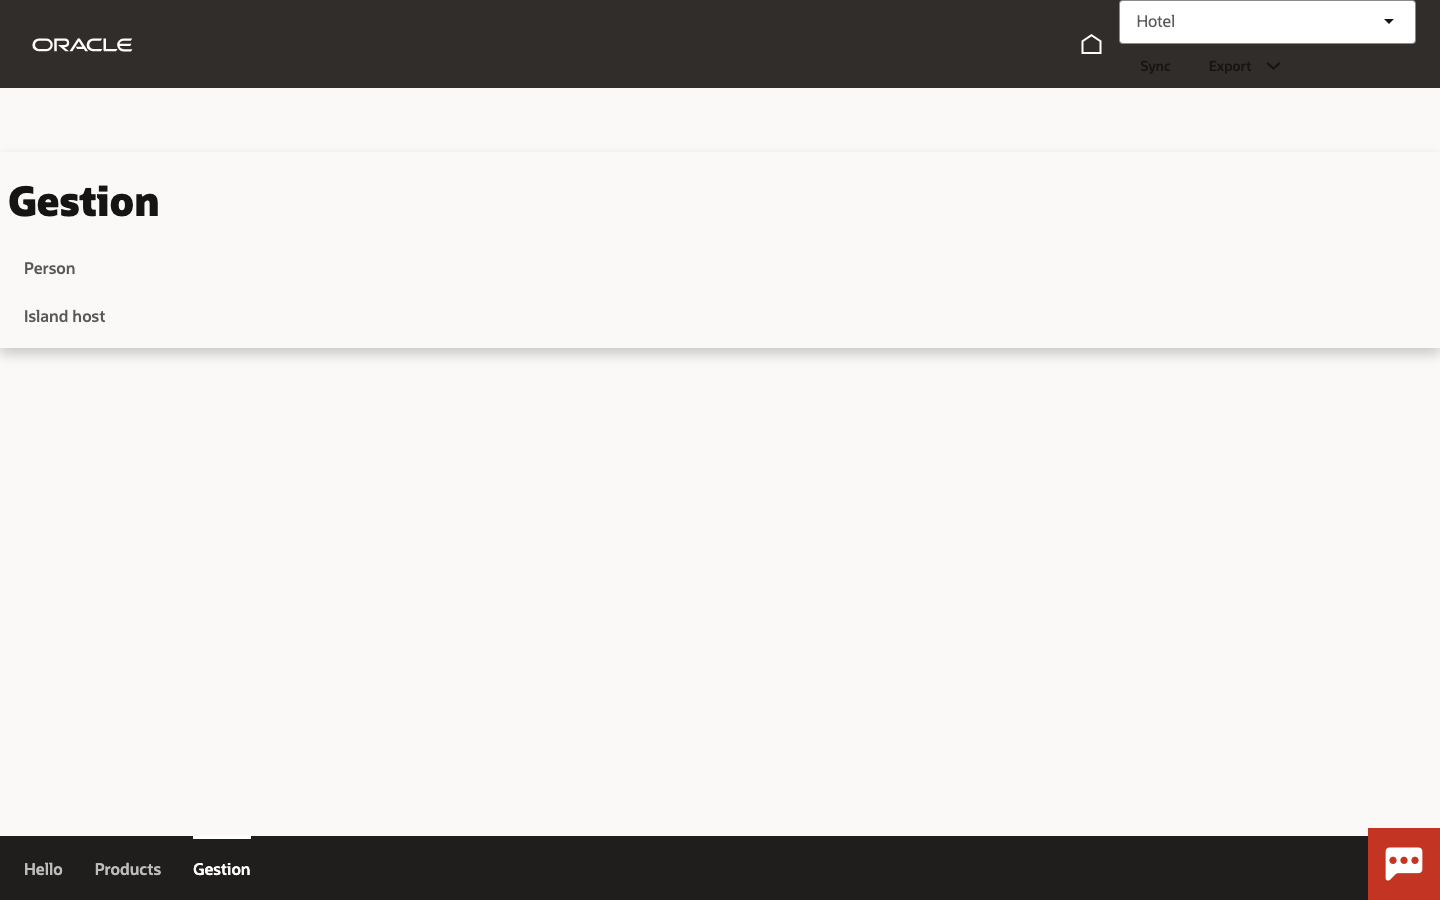
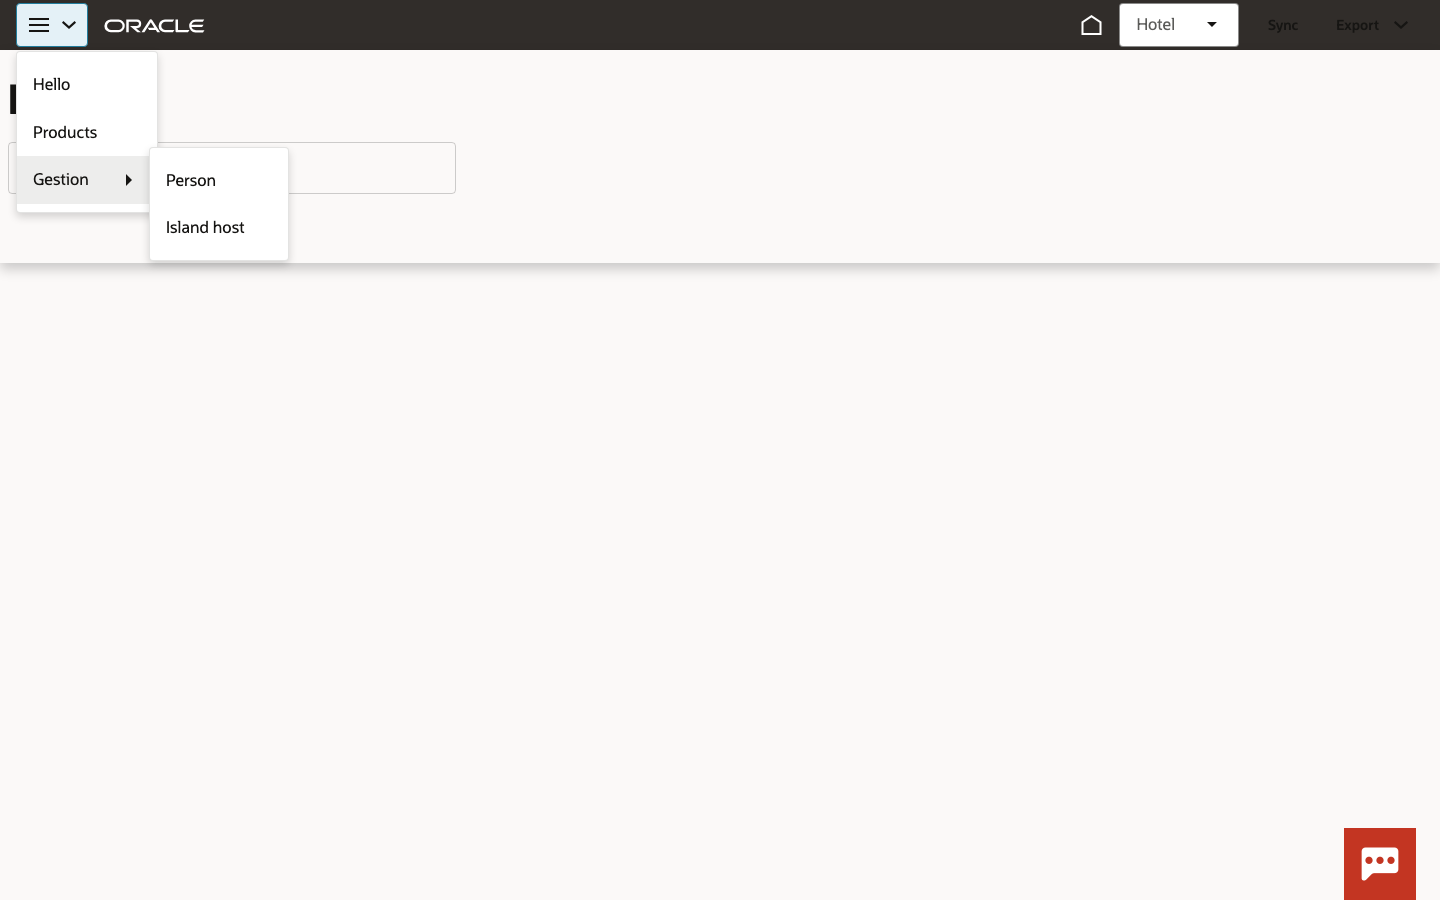
feat(vb): menu profundo -> hamburguesa + oj-menu anidado (la variante del wire decide el chrome)
Feedback del usuario: un menu profundo no debe quedarse en tabs + landing — debe pasar
a hamburguesa con menu anidado. Implementado honrando la variante que el wire ya emite:
- shellNavOf: mode ('tabs' si variant TABS y sin grupos; 'hamburger' si no) + menuTree
  jerarquico (hijos con rutas terminales). Tests 16/16.
- Shell: oj-menu-button hamburguesa (icono oj-ux-ico-menu) en el slot start del
  global-header con oj-menu anidado (oj-option > oj-menu = cascading submenu JET);
  la in-app navigation inferior solo se monta en modo tabs. Landing de submenu
  eliminado (chain, listener, markup, vars).
- onMateuNavigate acepta detail.selectedValue (ojMenuAction); bootstrap navega al
  primer leaf del arbol.
- Verificado: hamburguesa visible (tabs no), Gestion despliega Person/Island host,
  ambos navegan, Products carga el listado. Evidencia: shots/fase6-hamburger.png,
  fase6-submenu.png.

diff --git a/.dev/vb/mateu-vb/webApps/vbredwoodapp/pages/shell-page.html b/.dev/vb/mateu-vb/webApps/vbredwoodapp/pages/shell-page.html
@@ -5,6 +5,37 @@
 <oj-sp-simple-ui-shell id="shell">
 
   <oj-sp-global-header slot="globalHeader" id="globalHeader">
+    <!-- menú profundo (variante != TABS): hamburguesa + oj-menu ANIDADO (oj-option con
+         oj-menu hijo = submenú, el patrón JET auténtico) -->
+    <div slot="start">
+      <oj-bind-if test="[[ !$application.variables.mateuMenuTabs ]]">
+        <oj-menu-button id="mateuHamburger" chroming="borderless" display="icons">
+          <span slot="startIcon" class="oj-ux-ico-menu"></span>
+          Menu
+          <oj-menu slot="menu" on-oj-menu-action="[[ $listeners.menuNavAction ]]">
+            <oj-bind-for-each data="[[ $application.variables.mateuMenuTree ]]">
+              <template>
+                <oj-bind-if test="[[ !$current.data.hasChildren ]]">
+                  <oj-option :value="[[ $current.data.id ]]"><oj-bind-text value="[[ $current.data.label ]]"></oj-bind-text></oj-option>
+                </oj-bind-if>
+                <oj-bind-if test="[[ $current.data.hasChildren ]]">
+                  <oj-option>
+                    <span><oj-bind-text value="[[ $current.data.label ]]"></oj-bind-text></span>
+                    <oj-menu>
+                      <oj-bind-for-each data="[[ $current.data.children ]]">
+                        <template>
+                          <oj-option :value="[[ $current.data.id ]]"><oj-bind-text value="[[ $current.data.label ]]"></oj-bind-text></oj-option>
+                        </template>
+                      </oj-bind-for-each>
+                    </oj-menu>
+                  </oj-option>
+                </oj-bind-if>
+              </template>
+            </oj-bind-for-each>
+          </oj-menu>
+        </oj-menu-button>
+      </oj-bind-if>
+    </div>
     <!-- selectores @AppContext + acciones de cabecera del App de Mateu, en el slot end -->
     <div slot="end" class="oj-flex oj-sm-flex-wrap-nowrap oj-sm-align-items-center">
       <oj-bind-for-each data="[[ $application.variables.mateuContextSelectors ]]">
@@ -48,12 +79,14 @@
 
   <div slot="stretchingContents" id="pageContent" class="oj-web-applayout-page">
 
-    <!-- Menú del App de Mateu (shell.menu) → in-app navigation Redwood; la selección
-         dispara la carga de la ruta sin recargar la shell -->
-    <oj-sp-in-app-navigation id="mateuNav"
-      navigation-items="[[ $application.variables.mateuNavItems ]]"
-      selection="[[ $application.variables.mateuSelectedRoute ]]"
-      on-sp-selection-changed="[[ $listeners.navSelectionChanged ]]"></oj-sp-in-app-navigation>
+    <!-- Menú PLANO (variante TABS): in-app navigation Redwood; la selección dispara la
+         carga de la ruta sin recargar la shell -->
+    <oj-bind-if test="[[ $application.variables.mateuMenuTabs ]]">
+      <oj-sp-in-app-navigation id="mateuNav"
+        navigation-items="[[ $application.variables.mateuNavItems ]]"
+        selection="[[ $application.variables.mateuSelectedRoute ]]"
+        on-sp-selection-changed="[[ $listeners.navSelectionChanged ]]"></oj-sp-in-app-navigation>
+    </oj-bind-if>
 
     <div class="oj-web-applayout-content-nopad oj-web-applayout-max-width">
 

diff --git a/.dev/vb/mateu-vb/webApps/vbredwoodapp/resources/js/mateu-bridge.js b/.dev/vb/mateu-vb/webApps/vbredwoodapp/resources/js/mateu-bridge.js
@@ -149,26 +149,31 @@ define([], () => {
   function shellNavOf(reg) {
     const shell = reg.shell || {}
     const items = []
-    const groups = {}
+    const menuTree = []
+    let hasGroups = false
     for (const option of shell.menu || []) {
       const route = option.route || option.path
       const label = option.caption || option.label || route
       const children = option.submenus || option.submenu || []
       items.push({ id: route, label, icon: option.icon || undefined })
-      if (children.length) {
-        groups[route] = {
-          label,
-          children: children.map((child) => {
-            const childRoute = child.route || child.path || ''
-            const terminal = childRoute.indexOf(route + '/') === 0 ? childRoute.slice(route.length) : childRoute
-            return { id: terminal, label: child.caption || child.label || terminal }
-          }),
-        }
-      }
+      if (children.length) hasGroups = true
+      menuTree.push({
+        id: route,
+        label,
+        hasChildren: children.length > 0,
+        children: children.map((child) => {
+          const childRoute = child.route || child.path || ''
+          const terminal = childRoute.indexOf(route + '/') === 0 ? childRoute.slice(route.length) : childRoute
+          return { id: terminal, label: child.caption || child.label || terminal }
+        }),
+      })
     }
     return {
+      // la VARIANTE del wire manda: menú plano (TABS) → in-app navigation; profundo/denso
+      // (MENU_ON_TOP, HAMBURGUER_MENU, TILES…) → hamburguesa + oj-menu anidado
+      mode: shell.variant === 'TABS' && !hasGroups ? 'tabs' : 'hamburger',
       items,
-      groups,
+      menuTree,
       selectors: (shell.appContext || []).map((selector) => ({
         fieldName: selector.fieldName,
         label: selector.label || selector.fieldName,

diff --git a/.dev/vb/mateu-vb/webApps/vbredwoodapp/pages/shell-page-chains/onMateuNavigate.js b/.dev/vb/mateu-vb/webApps/vbredwoodapp/pages/shell-page-chains/onMateuNavigate.js
@@ -27,6 +27,7 @@ define([
 
       const detail = (event && (event.detail || event)) || {};
       const route = detail.currentId != null ? detail.currentId
+        : detail.selectedValue != null ? detail.selectedValue
         : detail.value != null ? detail.value : detail.route;
       if (route == null || route === '') {
         return;
@@ -35,22 +36,6 @@ define([
       if (!force && route === $application.variables.mateuSelectedRoute) {
         return;
       }
-
-      // grupo del menú → landing de submenú en el contenido, sin request
-      const groups = $application.variables.mateuNavGroups || {};
-      if (groups[route]) {
-        $application.variables.mateuSelectedRoute = route;
-        $application.variables.mateuSubmenu = groups[route];
-        $application.variables.mateuHostTitle = groups[route].label;
-        $application.variables.mateuHostText = '';
-        $application.variables.mateuFormMetadata = null;
-        $application.variables.mateuFormFieldsList = [];
-        $application.variables.mateuFormActions = [];
-        $application.variables.mateuListing = null;
-        $application.variables.mateuListingRows = [];
-        return;
-      }
-      $application.variables.mateuSubmenu = null;
 
       const base = $application.constants.mateuBaseUrl;
       const appState = $application.variables.mateuAppState || {};

diff --git a/.dev/vb/mateu-vb/webApps/vbredwoodapp/pages/shell-page-chains/loadMateuShell.js b/.dev/vb/mateu-vb/webApps/vbredwoodapp/pages/shell-page-chains/loadMateuShell.js
@@ -27,7 +27,8 @@ define([
       const nav = bridge.shellNavOf(reg);
       const appState = $application.variables.mateuAppState || {};
       $application.variables.mateuNavItems = nav.items;
-      $application.variables.mateuNavGroups = nav.groups;
+      $application.variables.mateuMenuTabs = nav.mode === 'tabs';
+      $application.variables.mateuMenuTree = nav.menuTree;
       $application.variables.mateuContextSelectors = nav.selectors.map((selector) => Object.assign({}, selector, {
         value: appState[selector.fieldName] != null ? appState[selector.fieldName] : null,
       }));
@@ -37,7 +38,9 @@ define([
         document.title = reg.shell.title;
       }
 
-      const first = nav.items.find((item) => !nav.groups[item.id]) || nav.items[0];
+      const firstLeaf = nav.menuTree.find((entry) => !entry.hasChildren);
+      const firstGroup = nav.menuTree.find((entry) => entry.hasChildren);
+      const first = firstLeaf || (firstGroup && firstGroup.children[0]);
       if (first) {
         await Actions.callChain(context, {
           chain: 'onMateuNavigate',

diff --git a/.dev/vb/mateu-vb/webApps/vbredwoodapp/flows/main/pages/main-start-page.html b/.dev/vb/mateu-vb/webApps/vbredwoodapp/flows/main/pages/main-start-page.html
@@ -18,23 +18,6 @@
   </div>
 </oj-bind-if>
 
-<!-- Landing de un GRUPO del menú: sus opciones con el navigation-list Redwood -->
-<oj-bind-if test="[[ !!$application.variables.mateuSubmenu ]]">
-  <div class="oj-flex">
-    <div class="oj-flex-item oj-sm-12 oj-md-4">
-      <oj-navigation-list id="mateuSubmenuList" drill-mode="none"
-        on-selection-changed="[[ $listeners.mateuSubmenuSelected ]]">
-        <ul>
-          <oj-bind-for-each data="[[ $application.variables.mateuSubmenu.children ]]">
-            <template>
-              <li :id="[[ $current.data.id ]]"><a href="#"><oj-bind-text value="[[ $current.data.label ]]"></oj-bind-text></a></li>
-            </template>
-          </oj-bind-for-each>
-        </ul>
-      </oj-navigation-list>
-    </div>
-  </div>
-</oj-bind-if>
 
 <oj-bind-if test="[[ !!$application.variables.mateuListing ]]">
   <div class="oj-flex oj-sm-align-items-center">

diff --git a/.dev/vb/mateu-vb/webApps/vbredwoodapp/pages/shell-page-chains/onMateuContextChanged.js b/.dev/vb/mateu-vb/webApps/vbredwoodapp/pages/shell-page-chains/onMateuContextChanged.js
@@ -40,8 +40,7 @@ define([
             : selector);
 
       const route = $application.variables.mateuSelectedRoute;
-      const groups = $application.variables.mateuNavGroups || {};
-      if (route && !groups[route]) {
+      if (route) {
         await Actions.callChain(context, {
           chain: 'onMateuNavigate',
           params: { event: { detail: { currentId: route } }, force: true },

diff --git a/.dev/vb/DESIGN-NOTES.md b/.dev/vb/DESIGN-NOTES.md
@@ -300,9 +300,12 @@ el kit + apuntar a un Mateu → pantalla con look Redwood nativo, cero código p
 - **Menú profundo**: un grupo `@Menu` (clase con @Menus anidados) llega en el wire como opción con
   **`submenus`** (¡no `submenu`!) y rutas COMPUESTAS (`/gestion/person`) que **NO resuelven por
   sync** — el bridge navega por la ruta TERMINAL (recorta el prefijo del padre; `shellNavOf`).
-  En VB: el grupo NO llama al server — pinta un landing con `oj-navigation-list` (drill hacia el
-  hijo); el clic navega vía el evento de aplicación. Gotcha demo: al agrupar, la variante del App
-  pasó de TABS a MENU_ON_TOP (la heurística AUTO de Mateu) — mismo render en nuestra shell.
+  **La VARIANTE del wire manda** (feedback del usuario — la 1ª versión pintaba un landing):
+  menú plano (`TABS`) → in-app navigation inferior; profundo/denso (`MENU_ON_TOP`,
+  `HAMBURGUER_MENU`, `TILES`…) → **hamburguesa en el slot start del global-header + `oj-menu`
+  ANIDADO** (`oj-option` conteniendo otro `oj-menu` = submenú, el cascading menu auténtico de
+  JET; `shellNavOf().mode` + `menuTree`). Al agrupar, la heurística AUTO de Mateu cambió la
+  variante de TABS a MENU_ON_TOP — y ahora eso decide el chrome de navegación.
 - **@AppContext**: `contextSelectors` del App → `oj-select-one` compacto (clases utilitarias
   `oj-form-control-max-width-sm` + `oj-sm-flex-wrap-nowrap`) en el slot `end` del global-header;
   el valor va a `$application.variables.mateuAppState` y viaja como **appState en CADA request**
